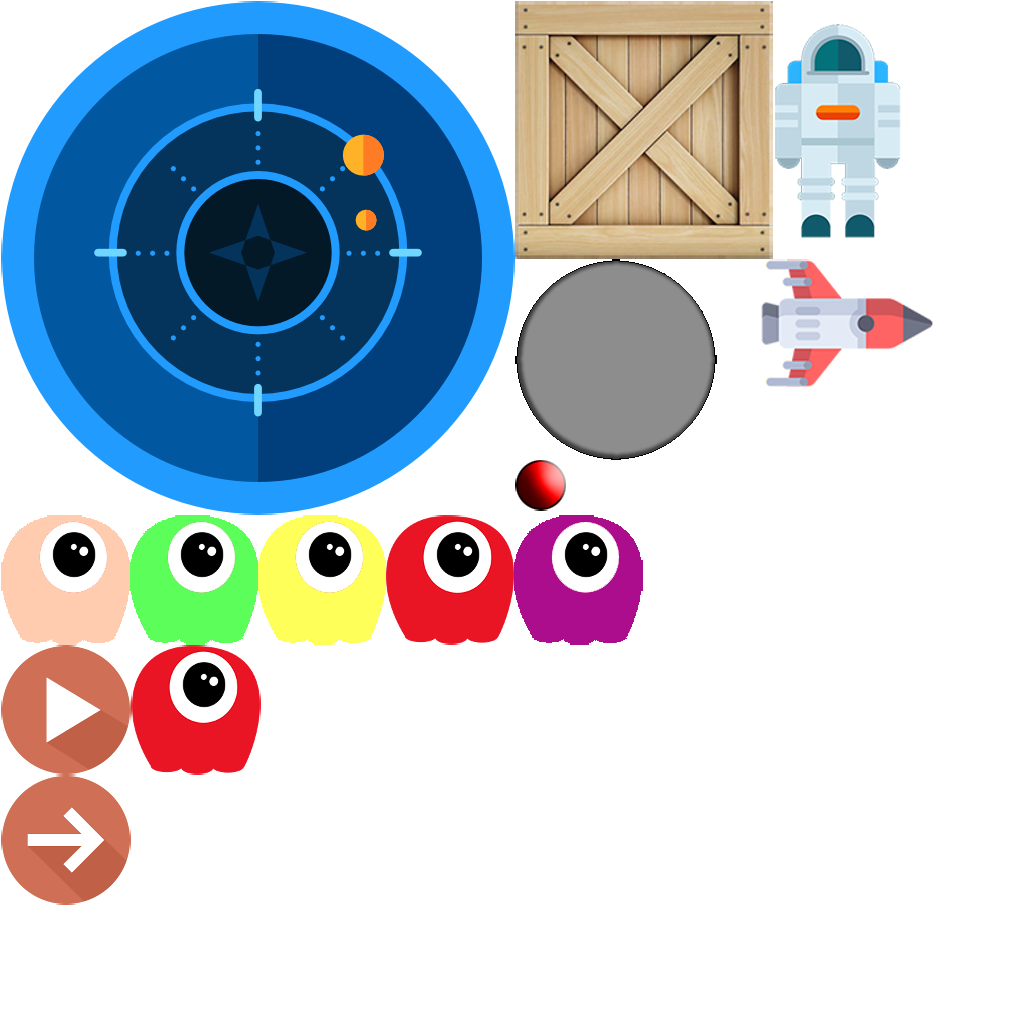
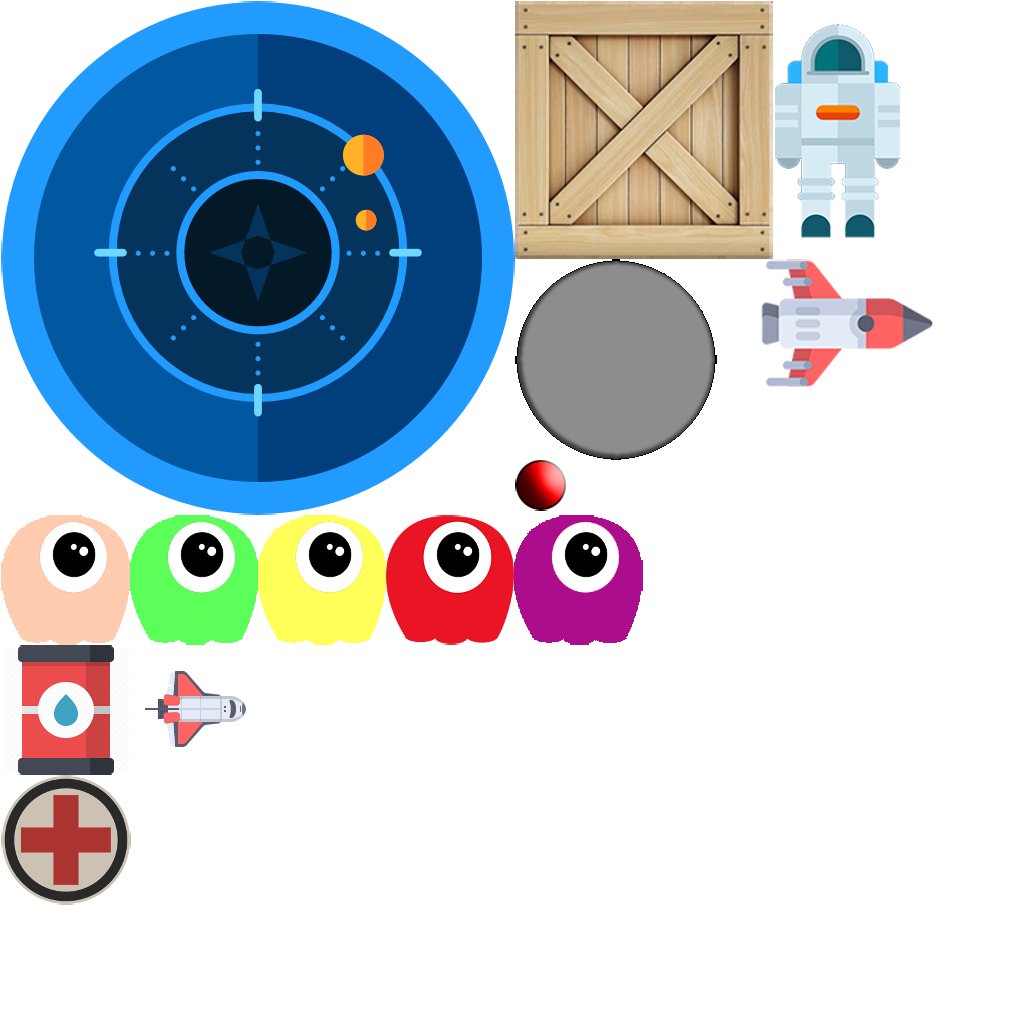
little fixes

Changed region(s): [[0.0, 0.625, 0.2812, 0.9062]]

diff --git a/core/src/com/shuttle/game/Shuttle.java b/core/src/com/shuttle/game/Shuttle.java
@@ -9,6 +9,7 @@ import com.shuttle.game.bot.Consumable;
 import com.shuttle.game.conf.GamePreferences;
 import com.shuttle.game.conf.GlobalInteractionLevels;
 import com.shuttle.game.conf.MSConstants;
+import com.shuttle.game.conf.PaintConstants;
 import com.shuttle.game.conf.Rules;
 import com.shuttle.game.screens.GameScreen;
 import com.shuttle.game.screens.ScreenManager;
@@ -48,15 +49,15 @@ public class Shuttle {
         this.gs = gs;
         this.joystick = joystick;
         this.preferences = preferences;
-        this.texture = Assets.getInstance().getAtlas().findRegion("rocket");
+        this.texture = Assets.getInstance().getAtlas().findRegion(PaintConstants.SHUTTLE_REGION);
         this.position = new Vector2(
                 ScreenManager.getInstance().getViewport().getWorldWidth() / 2,
                 ScreenManager.getInstance().getViewport().getWorldHeight() / 2
         );
         this.velocity = new Vector2();
         this.tmp = new Vector2();
-        this.width = texture.getRegionWidth();
-        this.height = texture.getRegionHeight();
+        this.width = PaintConstants.SHUTTLE_WIDTH;
+        this.height = PaintConstants.SHUTTLE_HEIGHT;
         this.radar = new Radar(gs, this);
         this.gun = new Gun();
         this.boundCheck = new BoundCheck();

diff --git a/core/src/com/shuttle/game/screens/TestScreen.java b/core/src/com/shuttle/game/screens/TestScreen.java
@@ -12,9 +12,7 @@ import com.badlogic.gdx.math.Circle;
  * @author Shuttle on 6/28/18.
  */
 public class TestScreen extends BaseScreen {
-
     Texture texture;
-    ShapeRenderer shapeRenderer;
     private ShaderProgram shaderProgram;
 
     public TestScreen(SpriteBatch batch) {
@@ -34,24 +32,15 @@ public class TestScreen extends BaseScreen {
             System.err.println(shaderProgram.getLog());
             System.exit(0);
         }
-
-        shapeRenderer = new ShapeRenderer(5000, shaderProgram);
-        shapeRenderer.setAutoShapeType(true);
-        shapeRenderer.setColor(Color.BLUE);
-        shapeRenderer.setProjectionMatrix(ScreenManager.getInstance().getViewport().getCamera().combined);
+        ShaderProgram.pedantic = false;
     }
 
     @Override
     public void render(float delta) {
         super.render(delta);
-        shapeRenderer.begin(ShapeRenderer.ShapeType.Filled);
-        shapeRenderer.circle(50, 50,50);
-        shapeRenderer.end();
+        batch.setShader(shaderProgram);
         batch.begin();
-        batch.draw(texture, 0 ,0);
+        batch.draw(texture, 0, 0);
         batch.end();
-    }
-
-    private void update(float delta) {
     }
 }

diff --git a/core/src/com/shuttle/game/conf/PaintConstants.java b/core/src/com/shuttle/game/conf/PaintConstants.java
@@ -4,6 +4,13 @@ package com.shuttle.game.conf;
  * @author Shuttle on 8/28/18.
  */
 public class PaintConstants {
+
+    public static final String SHUTTLE_REGION = "shuttle";
+
+    public static final int SHUTTLE_WIDTH = 256;
+
+    public static final int SHUTTLE_HEIGHT = 256;
+
     public static final int ALIEN_WIDTH = 128;
 
     public static final int ALIEN_HEIGHT = 128;
